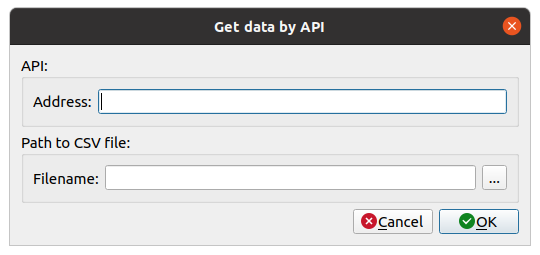
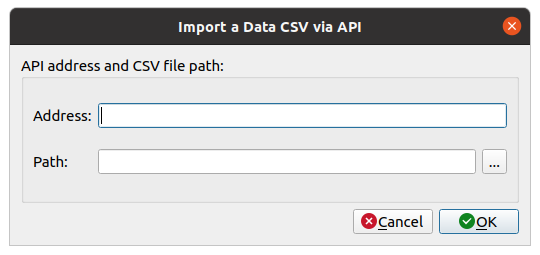
api dialog redesign

diff --git a/src/apiparam.py b/src/apiparam.py
@@ -1,6 +1,6 @@
 from PyQt5 import QtCore
 from PyQt5.QtWidgets import QDialog, QMessageBox, QDialogButtonBox, QVBoxLayout, QHBoxLayout, QLabel, QLineEdit, \
-    QPushButton, QRadioButton, QFileDialog, QGroupBox, QSpacerItem
+    QPushButton, QRadioButton, QFileDialog, QGroupBox, QSpacerItem, QGridLayout
 
 
 class ApiDialog(QDialog):
@@ -14,31 +14,29 @@ class ApiDialog(QDialog):
 
         self.layout = QVBoxLayout()
 
-        # api address to get
-        groupbox_api = QGroupBox("API:")
-        self.layout.addWidget(groupbox_api)
-        self.layout_api = QHBoxLayout()
-        groupbox_api.setLayout(self.layout_api)
+        # group box
+        groupbox = QGroupBox("API address and CSV file path:")
+        self.layout.addWidget(groupbox)
+        self.layout_grid = QGridLayout()
+        groupbox.setLayout(self.layout_grid)
 
-        self.layout_api.addWidget(QLabel("Address:"))
+        # API address
+        label_addres = QLabel("Address:")
+        self.layout_grid.addWidget(label_addres, 0, 0)
         self.address = QLineEdit()
         self.address.setText('')
-        self.layout_api.addWidget(self.address)
+        self.layout_grid.addWidget(self.address, 0, 1, 1, 2) # columnSpan = 2
 
         # file name to save
-        groupbox_file = QGroupBox("Path to CSV file:")
-        self.layout.addWidget(groupbox_file)
-        self.layout_file = QHBoxLayout()
-        groupbox_file.setLayout(self.layout_file)
-
-        self.layout_file.addWidget(QLabel("Filename:"))
+        label_fname = QLabel("Path:")
+        self.layout_grid.addWidget(label_fname, 1, 0)
         self.filename = QLineEdit()
         self.filename.setText('')
-        self.layout_file.addWidget(self.filename)
+        self.layout_grid.addWidget(self.filename, 1, 1)
         self.btn_file = QPushButton("...")
         self.btn_file.setMaximumWidth(25)
         self.btn_file.clicked.connect(self.onBtnFileClicked)
-        self.layout_file.addWidget(self.btn_file)
+        self.layout_grid.addWidget(self.btn_file, 1, 2)
 
         self.layout.addWidget(self.buttonBox)
         self.setLayout(self.layout)

diff --git a/src/mainwindow.py b/src/mainwindow.py
@@ -329,7 +329,7 @@ class MainWindow(QtWidgets.QMainWindow):
 
     def onImportFromAPI(self) -> None:
         dlg = ApiDialog()
-        dlg.setWindowTitle("Get data by API")
+        dlg.setWindowTitle("Import a Data CSV via API")
         if dlg.exec_():
             file_name = dlg.filename.text()
             address = dlg.address.text()
